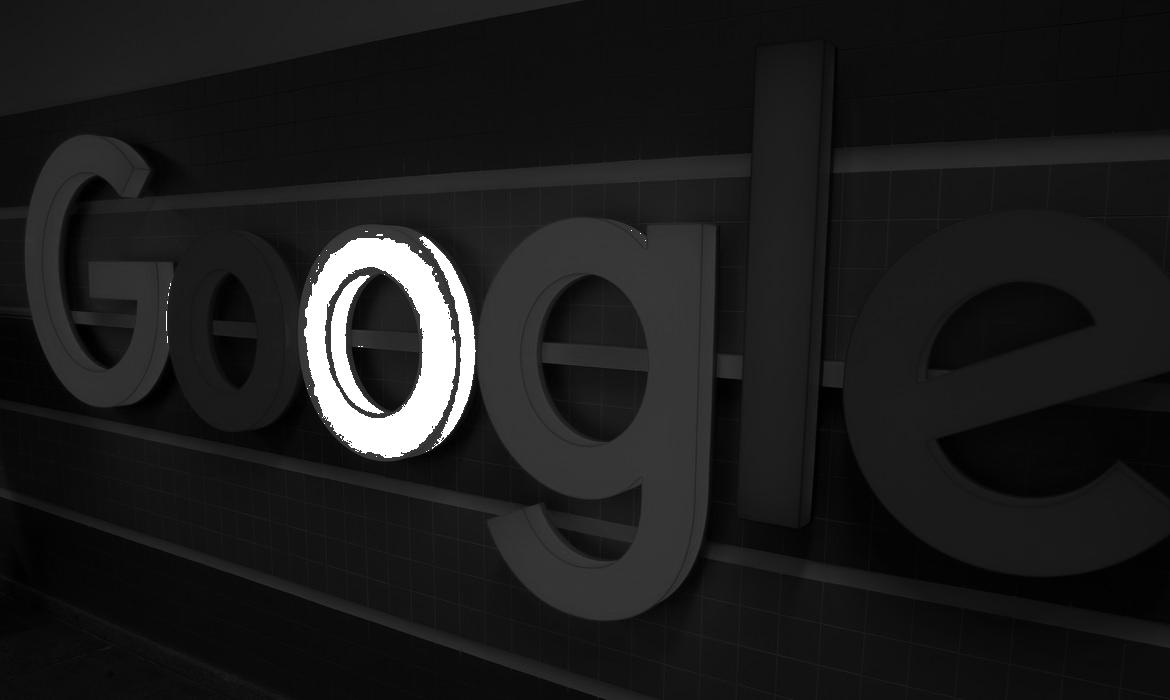
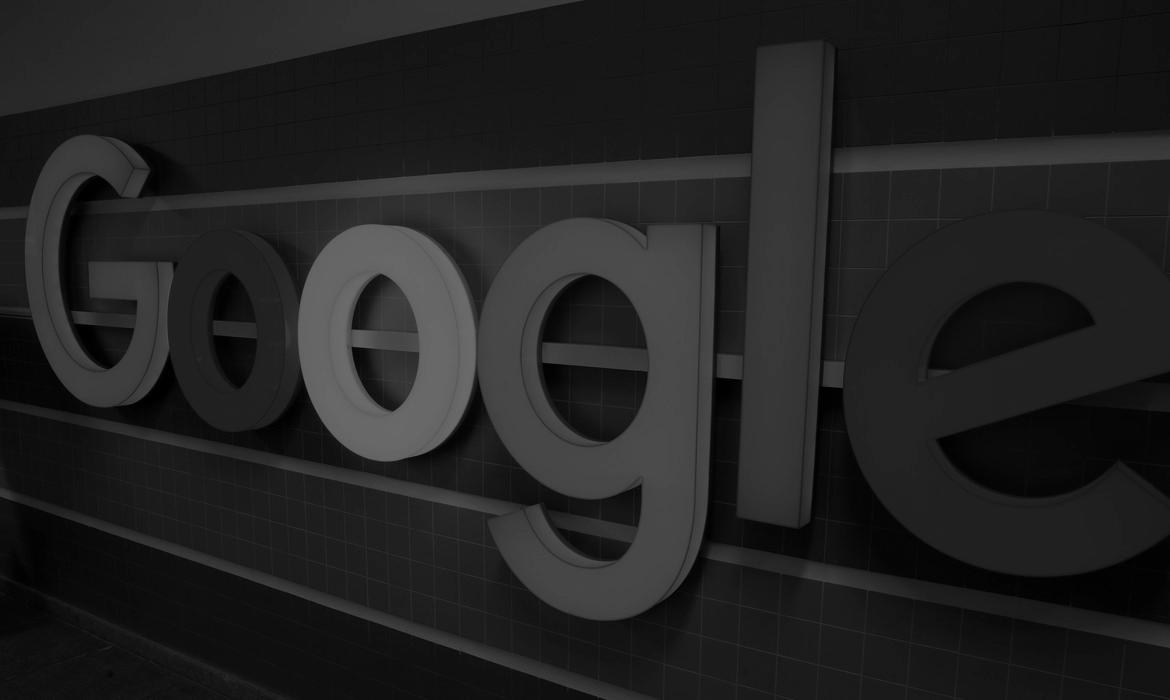
Percent image fixed

diff --git a/src/newimage/teste3.java b/src/newimage/teste3.java
@@ -35,18 +35,18 @@ public class teste3 {
          System.out.println("Type the percentage of image brightness: ");
          int percent = input.nextInt();
          
-          for(int i=0;i<pixels.length;i+=3){
-             int mp = (pixels[i]+pixels[i+1]+pixels[i+2])/3;
-             int limiar = (mp*percent)/100;
+          for(int i=0; i<pixels.length; i+=3){
+             int mp = (int) (((pixels[i]*0.30) + (pixels[i+1]*0.59) + (pixels[i+2]*0.11)) /3);
+             int limiar = mp+((mp*percent)/100);
              
-             if(limiar + mp >= 255) {
-                  pixels[i]=255;
-                  pixels[i+1]=255;
-                  pixels[i+2]=255;
-             } else {
+             if(mp<=limiar) {
                   pixels[i]=limiar;
                   pixels[i+1]=limiar;
                   pixels[i+2]=limiar;
+             } else {
+                  pixels[i]=255;
+                  pixels[i+1]=255;
+                  pixels[i+2]=255;
              }
           }
           
